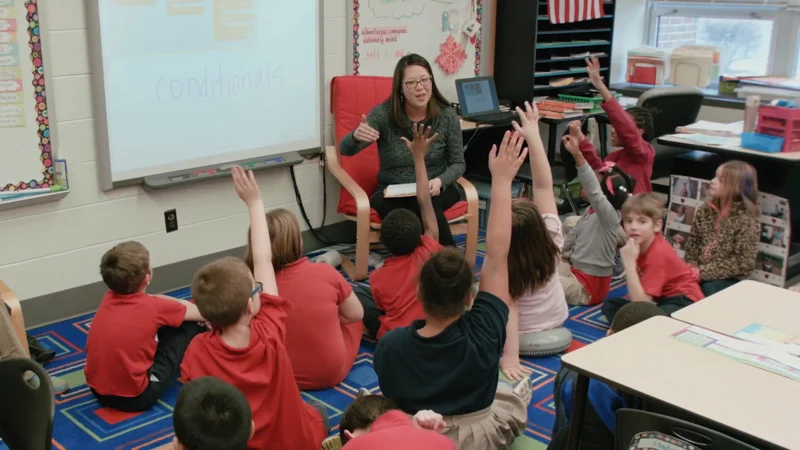
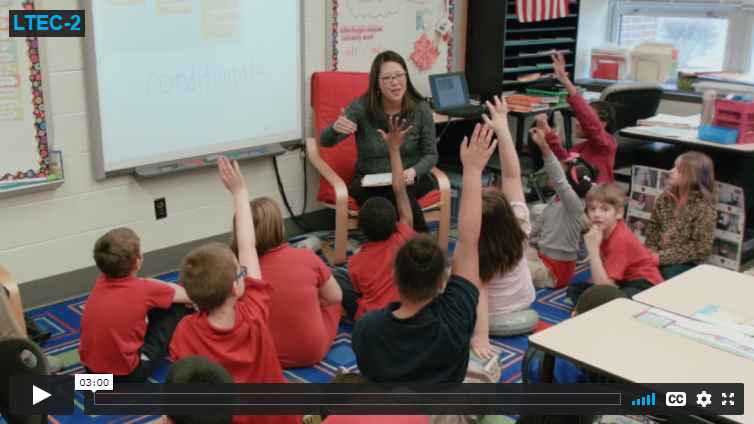
AF: Replace static img w/2021 townhall video link

diff --git a/public_site/templates/public_lessons_action_fractions.html b/public_site/templates/public_lessons_action_fractions.html
@@ -101,7 +101,12 @@
               <div class="asset-placeholder-inner">
                 <div class="asset-placeholder-contents">
                   <!-- Placeholder until we have an intro video -->
-                  <img src="/static/img/video-thumb-videohall-2018.PNG" class="showcase-image" alt="" />
+                  <!-- <img src="/static/img/video-thumb-videohall-2018.PNG" class="showcase-image" alt="" /> -->
+                  
+                  <!-- Temporary solution until we have access to an embeddable video -->
+                  <a href="https://stemforall2021.videohall.com/presentations/2110" target="_blank" class="block">
+                    <img src="/static/img/video-thumb-videohall-2021.png" class="showcase-image" alt="Video about Action Fractions created for STEM For All Video Townhall 2021" />
+                  </a>
                 </div>
               </div>
             </div>
